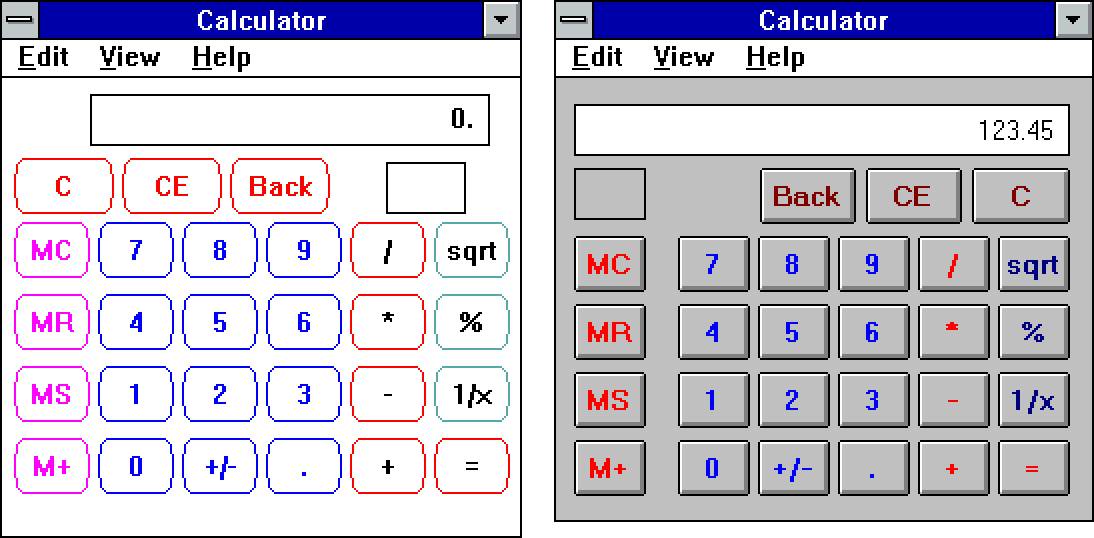
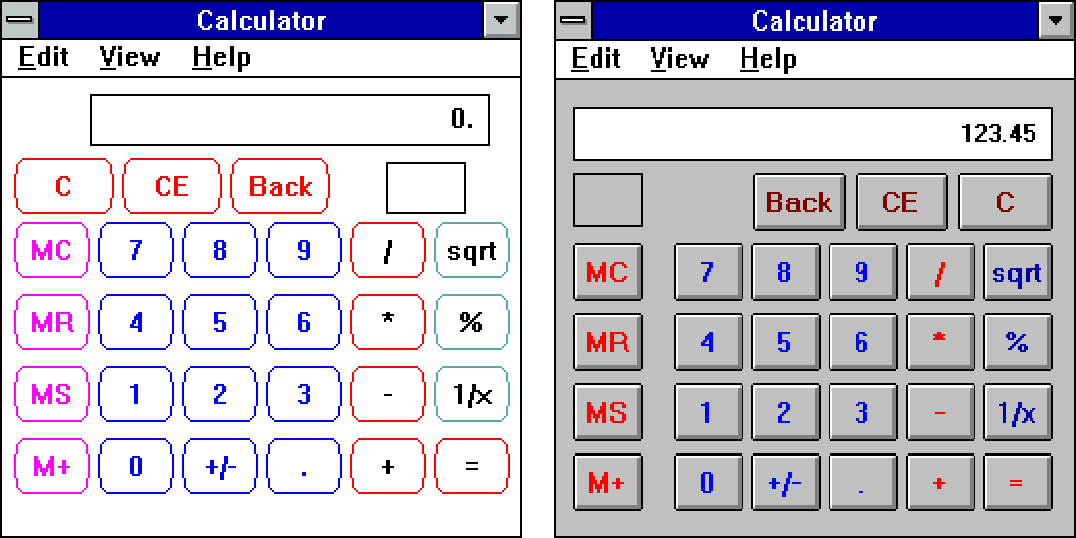
README: before/after screenshots against the original Calculator

diff --git a/README.md b/README.md
@@ -7,15 +7,15 @@ In Windows 3.1, most built-in programs share the same look: grey push buttons, M
 A native 16-bit (Win16) program written in C, tested on a real 486.
 
 <p align="center">
-  <img src="docs/before-after-standard.png" alt="Standard mode, before and after: on the left the original Windows 3.1 Calculator with outlined keys on a white background; on the right the new one with grey Windows 3.1 push buttons and a framed white display" width="548">
+  <img src="docs/before-after-standard.png" alt="Standard mode, before and after: on the left the original Windows 3.1 Calculator with outlined keys on a white background; on the right the new one with grey Windows 3.1 push buttons and a framed white display" width="538">
   <br>
-  <sub>Standard mode. Left: the original Windows 3.1 Calculator. Right: the new one, rendered pixel by pixel from the app's layout and the Windows 3.1 fonts (not a capture).</sub>
+  <sub>Standard mode. Left: the original Windows 3.1 Calculator. Right: the new Calculator 2.0, scaled to the same window size. Both are screenshots taken in 16 colors.</sub>
 </p>
 
 <p align="center">
   <img src="docs/before-after-scientific.png" alt="Scientific mode, before and after: on the left the original Windows 3.1 Calculator; on the right the new one with framed groups of radio buttons, Inv and Hyp check boxes and grey push buttons" width="760">
   <br>
-  <sub>Scientific mode. Left: the original Windows 3.1 Calculator. Right: the new one, rendered the same way (not a capture).</sub>
+  <sub>Scientific mode. Left: the original Windows 3.1 Calculator. Right: the new Calculator 2.0, scaled to the same window size. Both are screenshots taken in 16 colors.</sub>
 </p>
 
 ### Highlights
